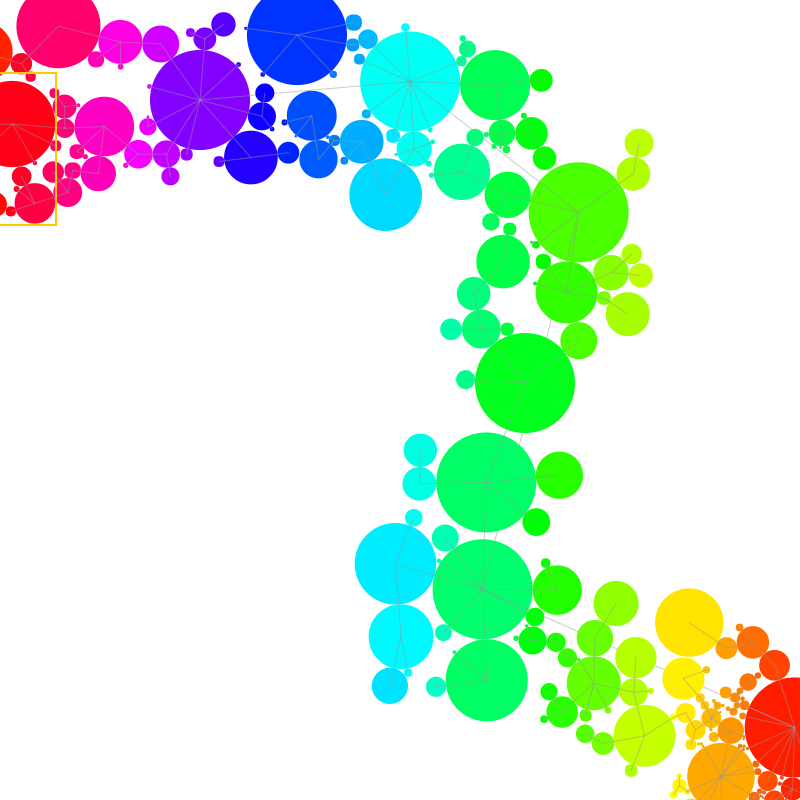
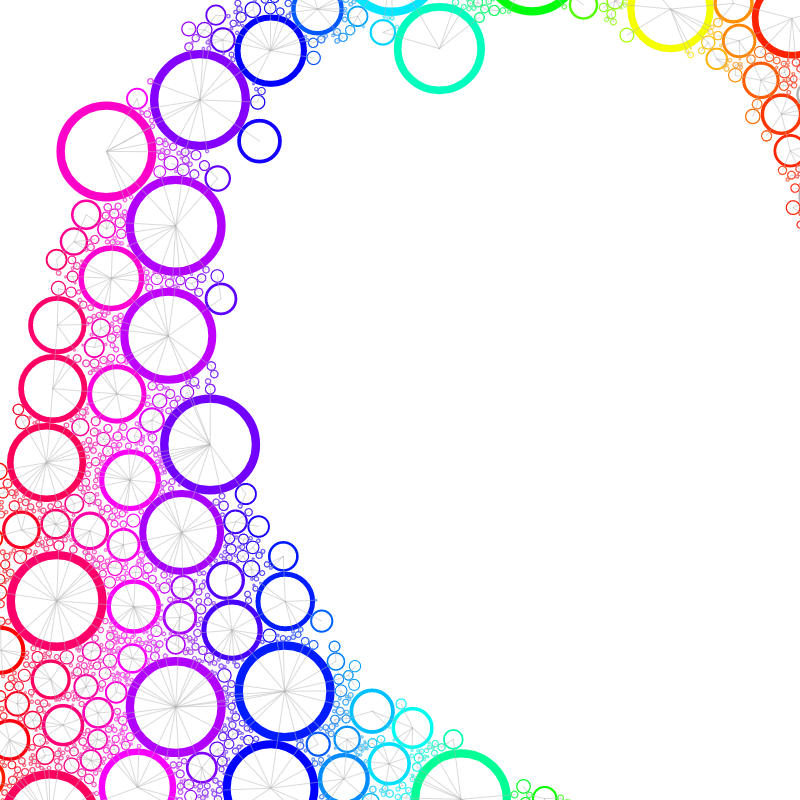
mod P_2_2_5_01

diff --git a/public/P_2_2_5_01/index.html b/public/P_2_2_5_01/index.html
@@ -48,8 +48,8 @@ function setUp() {
     context.canvas.width = width;
     context.canvas.height = height;
 
-    x[0] = 200;
-    y[0] = 100;
+    x[0] = width * Math.random();
+    y[0] = height;
     r[0] = 50;
     closestIndex[0] = 0;
 
@@ -61,7 +61,6 @@ function draw() {
 
     clearDisplay();
 
-    // create a random position
     var newX = Math.random() * (width - (maxRadius * 2)) + (maxRadius);
     var newY = Math.random() * (height - (maxRadius * 2)) + (maxRadius);
     var newR = minRadius;
@@ -111,13 +110,19 @@ function draw() {
             context.strokeStyle = 'rgb(0, 0, 0)';
             context.fillStyle = 'rgb(0, 0, 0)';
         }
+
+        var radius = r[i];
         if (lineMode == 1) {
             context.lineWidth = r[i] / 6;
+            radius = r[i] - (r[i] / 6 / 2);
         } else {
             context.lineWidth = 1;
         }
         context.beginPath();
-        context.arc(x[i], y[i], r[i], 0, Math.PI / 180 * 360, false);
+        context.arc(
+            x[i], y[i], radius,
+            0, Math.PI / 180 * 360, false
+        );
         if (fillMode == 1) {
             context.fill();
         } else {
@@ -126,11 +131,12 @@ function draw() {
 
 
         if (colorMode == 1) {
-            context.strokeStyle = 'rgb(150, 150, 150)';
+            context.strokeStyle = 'rgb(180, 180, 180)';
+            context.lineWidth = .5;
         } else {
             context.strokeStyle = 'rgb(255, 200, 0)';
+            context.lineWidth = 1;
         }
-        context.lineWidth = .5;
         var n = closestIndex[i];
         context.beginPath();
         context.moveTo(x[i], y[i]);
@@ -206,7 +212,7 @@ document.addEventListener('keydown', (event) => {
     if (key == '2') colorMode *= -1;
     if (key == '3') fillMode *= -1;
     if (key == 'ArrowUp') mouseRect = mouseRect + 1;
-    if (key == 'ArrowDown') mouseRect = Math.max(mouseRect - 1, 100);
+    if (key == 'ArrowDown') mouseRect = Math.max(mouseRect - 1, 30);
 });
 
 document.onclick = function (e) {
